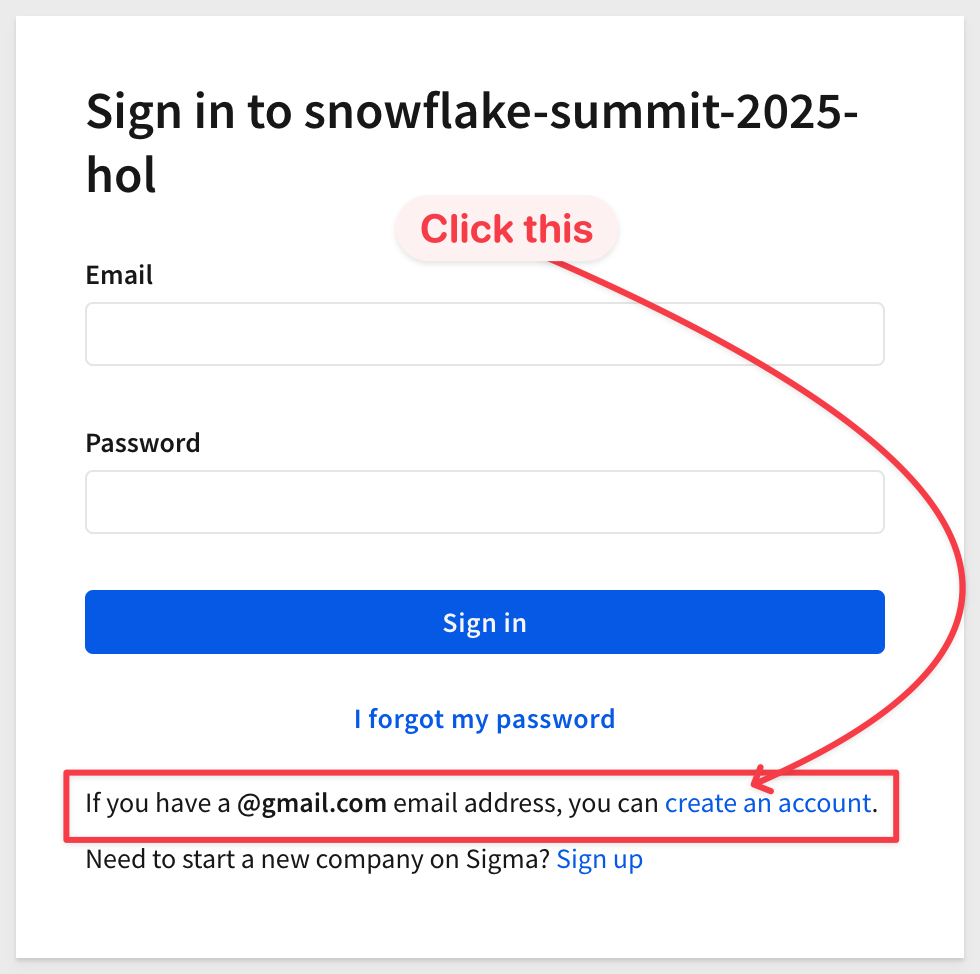
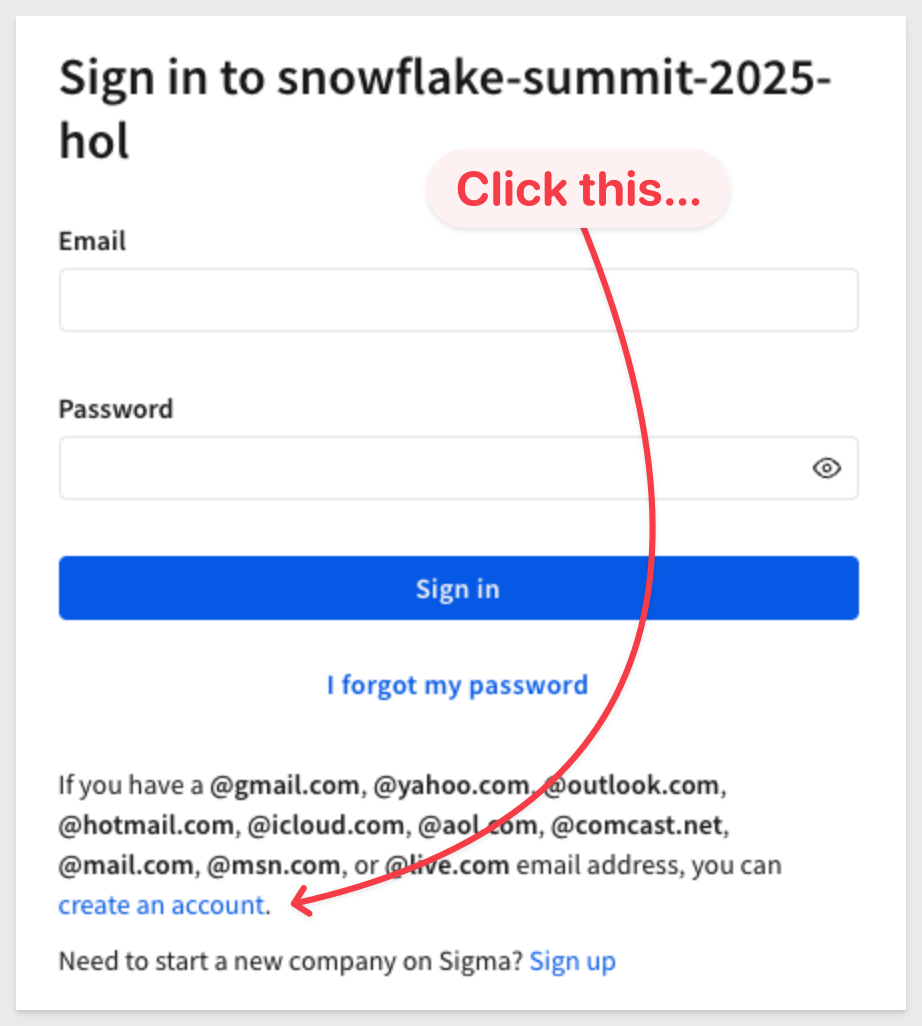
sn_edit_30_may

diff --git a/site/sigmaguides/src/partners_snowflake_summit_2025/partners_snowflake_summit_2025.md b/site/sigmaguides/src/partners_snowflake_summit_2025/partners_snowflake_summit_2025.md
@@ -64,6 +64,9 @@ Duration: 5
 
 <aside class="positive">
 <strong>IMPORTANT:</strong><br> Be sure to have a personal email ready to go, we’d prefer to avoid accidental sign-ups for new Sigma accounts!
+
+Whitelisted Domains:
+@gmail.com, @yahoo.com, @outlook.com, @hotmail.com, @icloud.com, @aol.com, @comcast.net, @mail.com, @msn.com, or @live.com
 </aside>
 
 <img src="assets/sf2025_1c.png" width="400"/>
